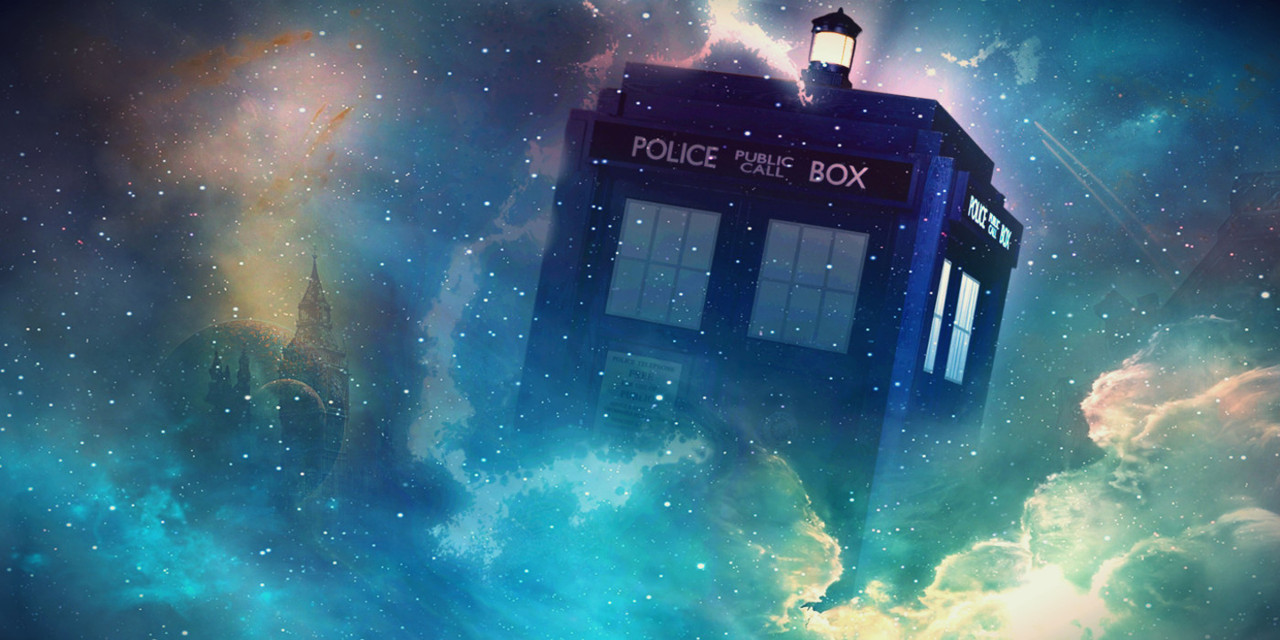
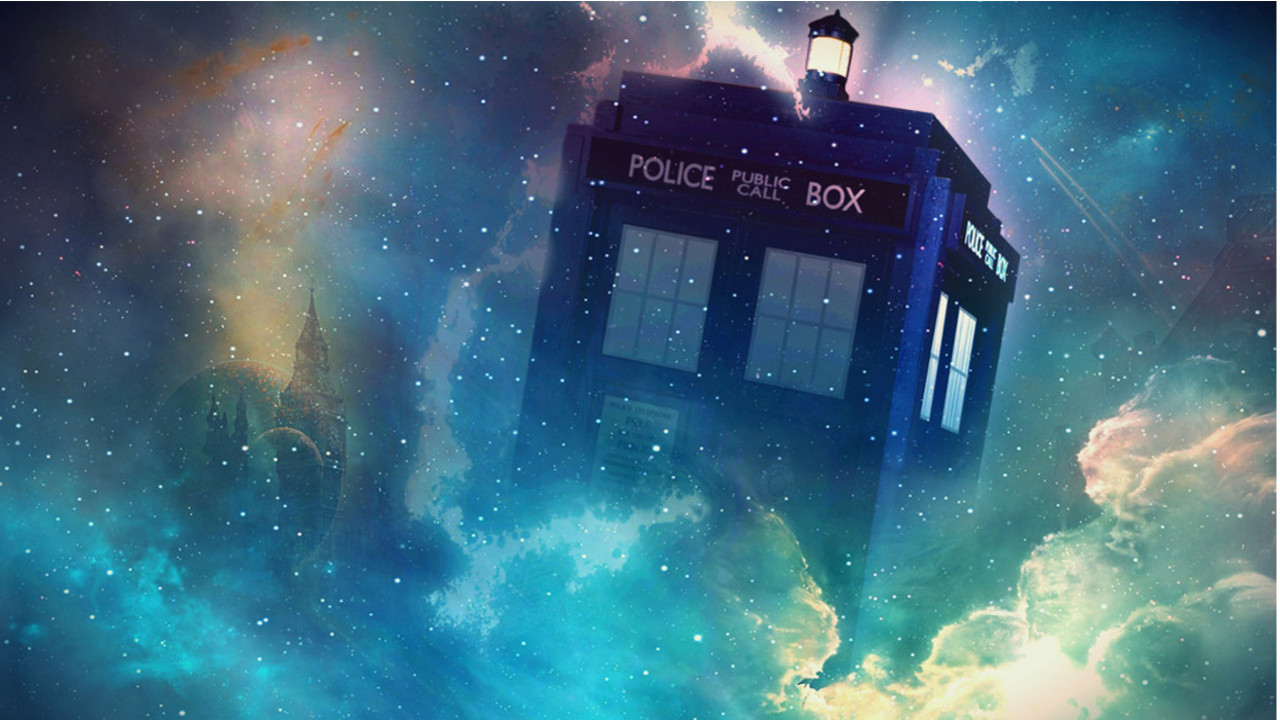
Updated images

diff --git a/index.html b/index.html
@@ -33,7 +33,7 @@
                 <h3 id="portfolio">PORTFOLIO</h3>
                 <div class="primary col">
                     <div class="content-separator1">
-                        <img src="images/portfolio-1.png" alt="portfolio image">
+                        <img src="images/paletexpress.jpg" alt="portfolio image">
                         <h2>Palet Express Cajasiete</h2>
                         <p>
                             Palet express cajasiete, a company in which 20H is located,
@@ -42,7 +42,7 @@
                         </p>
                     </div> <!--/ .content-separator1-->
                     <div class="content-separator2">
-                        <img src="images/portfolio-2.png" alt="grafics portfolio">
+                        <img src="images/20h.png" alt="grafics portfolio">
                         <h2>20 H Talent</h2>
                         <p>
                             20H is a StartUp, which develops products around the world, in addition to having a system
@@ -52,7 +52,7 @@
                 </div><!--/.primary-->
                 <div class="secondary col">
                     <div class="content-separator1">
-                        <img src="images/portfolio-3.png" alt="search page">
+                        <img src="images/book-computer-design-326424.png" alt="search page">
                         <h2>What we learn</h2>
                         <p>
                             We are in the Ikigai Bootcamp of 20H Talent, in which we learn HTML &amp; CSS among other languages
@@ -60,7 +60,7 @@
                         </p>
                     </div><!--/ .content-separator1-->
                     <div class="content-separator2">
-                        <img src="images/portfolio-4.png" alt="travel app">
+                        <img src="images/chess1.jpeg" alt="travel app">
                         <h2>As a good game of Chess</h2>
                         <p>
                             As in a game of chess, you have to know how the pieces work and think hard to win.
@@ -70,7 +70,7 @@
                 </div><!--/.secondary-->
                 <div class="terciary col">
                     <div class="content-separator1">
-                        <img src="images/portfolio-5.png" alt="maps of spots">
+                        <img src="images/The-police-Box-TARDIS-from-Doctor-Who-in-space.jpg" alt="maps of spots">
                         <h2>Doctor Who Series</h2>
                         <p>
                             Who does not you like to travel through time and space on infinty adventures?
@@ -78,8 +78,8 @@
                         </p>
                     </div><!--/ .content-separator1-->
                     <div class="content-separator2">
-                        <img src="images/portfolio-6.png" alt="photo gallery">
-                        <h2>Calculator</h2>
+                        <img src="images/camera_cafe.jpg" alt="photo gallery">
+                        <h2>Camera Café</h2>
                         <p>
                             Who does not like to disconnect from everyday life seeing the reality of other people?
                             <br>This is Tony's favorite series, from which he laughs seeing how badly his protagonists are passing it,
